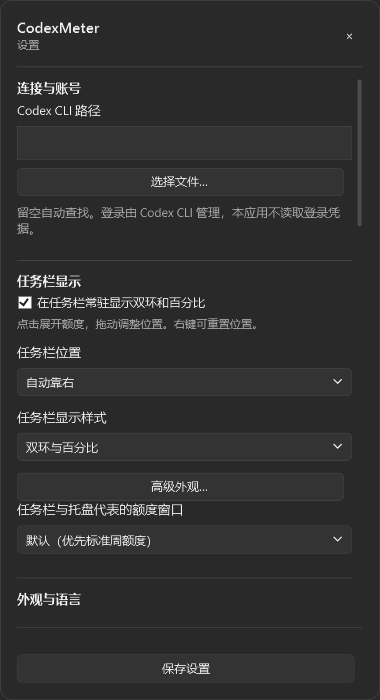
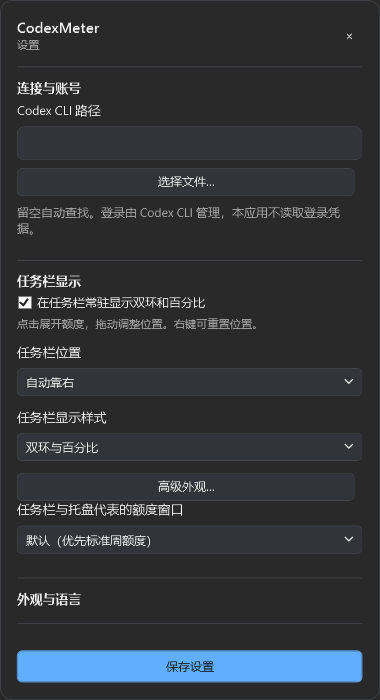
统一设置与管理页面的柔和表面并准备 0.7.4

diff --git a/windows/CodexMeter.Windows/PreferencesStyles.cs b/windows/CodexMeter.Windows/PreferencesStyles.cs
@@ -1,0 +1,100 @@
+using System.Windows;
+using System.Windows.Markup;
+
+namespace CodexMeter.Windows
+{
+    // Scoped to the compact preference windows; quota charts retain their own palette.
+    internal static class PreferencesStyles
+    {
+        public static void Apply(Window window, Palette palette)
+        {
+            string xaml = @"<ResourceDictionary xmlns='http://schemas.microsoft.com/winfx/2006/xaml/presentation' xmlns:x='http://schemas.microsoft.com/winfx/2006/xaml'>
+<SolidColorBrush x:Key='Preferences.Surface' Color='$surface'/>
+<SolidColorBrush x:Key='Preferences.Text' Color='$text'/>
+<SolidColorBrush x:Key='Preferences.Line' Color='$line'/>
+<SolidColorBrush x:Key='Preferences.Hover' Color='$hover'/>
+<SolidColorBrush x:Key='Preferences.Selected' Color='$selected'/>
+<SolidColorBrush x:Key='Preferences.Accent' Color='$accent'/>
+<Style TargetType='ListBox'>
+  <Setter Property='Padding' Value='4'/><Setter Property='BorderThickness' Value='1'/>
+  <Setter Property='HorizontalContentAlignment' Value='Stretch'/>
+  <Setter Property='ScrollViewer.HorizontalScrollBarVisibility' Value='Disabled'/>
+  <Setter Property='Template'><Setter.Value><ControlTemplate TargetType='ListBox'>
+    <Border Background='{TemplateBinding Background}' BorderBrush='{TemplateBinding BorderBrush}' BorderThickness='{TemplateBinding BorderThickness}' CornerRadius='8'>
+      <ScrollViewer x:Name='PART_ScrollViewer' Padding='{TemplateBinding Padding}' Focusable='False' CanContentScroll='True'
+          HorizontalScrollBarVisibility='{TemplateBinding ScrollViewer.HorizontalScrollBarVisibility}' VerticalScrollBarVisibility='{TemplateBinding ScrollViewer.VerticalScrollBarVisibility}'>
+        <ItemsPresenter/>
+      </ScrollViewer>
+    </Border>
+  </ControlTemplate></Setter.Value></Setter>
+</Style>
+<Style TargetType='ListBoxItem'>
+  <Setter Property='Padding' Value='9,6'/><Setter Property='Margin' Value='0,1'/>
+  <Setter Property='HorizontalContentAlignment' Value='Stretch'/><Setter Property='Background' Value='Transparent'/>
+  <Setter Property='BorderBrush' Value='Transparent'/><Setter Property='BorderThickness' Value='1'/>
+  <Setter Property='FocusVisualStyle' Value='{x:Null}'/>
+  <Setter Property='Template'><Setter.Value><ControlTemplate TargetType='ListBoxItem'>
+    <Border x:Name='Frame' Background='{TemplateBinding Background}' BorderBrush='{TemplateBinding BorderBrush}' BorderThickness='{TemplateBinding BorderThickness}' CornerRadius='5' Padding='{TemplateBinding Padding}'>
+      <ContentPresenter HorizontalAlignment='{TemplateBinding HorizontalContentAlignment}' VerticalAlignment='Center'/>
+    </Border>
+    <ControlTemplate.Triggers>
+      <Trigger Property='IsMouseOver' Value='True'><Setter TargetName='Frame' Property='Background' Value='{StaticResource Preferences.Hover}'/></Trigger>
+      <Trigger Property='IsSelected' Value='True'><Setter TargetName='Frame' Property='Background' Value='{StaticResource Preferences.Selected}'/></Trigger>
+      <Trigger Property='IsKeyboardFocusWithin' Value='True'><Setter TargetName='Frame' Property='BorderBrush' Value='{StaticResource Preferences.Accent}'/></Trigger>
+      <Trigger Property='IsEnabled' Value='False'><Setter Property='Opacity' Value='0.45'/></Trigger>
+    </ControlTemplate.Triggers>
+  </ControlTemplate></Setter.Value></Setter>
+</Style>
+<Style x:Key='Preferences.Input' TargetType='Control'>
+  <Setter Property='Background' Value='{StaticResource Preferences.Surface}'/><Setter Property='Foreground' Value='{StaticResource Preferences.Text}'/>
+  <Setter Property='BorderBrush' Value='{StaticResource Preferences.Line}'/><Setter Property='BorderThickness' Value='1'/>
+  <Setter Property='VerticalContentAlignment' Value='Center'/>
+  <Style.Triggers><Trigger Property='IsEnabled' Value='False'><Setter Property='Opacity' Value='0.45'/></Trigger></Style.Triggers>
+</Style>
+<Style TargetType='TextBox' BasedOn='{StaticResource Preferences.Input}'>
+  <Setter Property='CaretBrush' Value='{StaticResource Preferences.Text}'/><Setter Property='SelectionBrush' Value='{StaticResource Preferences.Accent}'/>
+  <Setter Property='Template'><Setter.Value><ControlTemplate TargetType='TextBox'>
+    <Border x:Name='Frame' Background='{TemplateBinding Background}' BorderBrush='{TemplateBinding BorderBrush}' BorderThickness='{TemplateBinding BorderThickness}' CornerRadius='7'>
+      <ScrollViewer x:Name='PART_ContentHost' Focusable='False'/>
+    </Border>
+    <ControlTemplate.Triggers><Trigger Property='IsKeyboardFocusWithin' Value='True'><Setter TargetName='Frame' Property='BorderBrush' Value='{StaticResource Preferences.Accent}'/></Trigger></ControlTemplate.Triggers>
+  </ControlTemplate></Setter.Value></Setter>
+</Style>
+<Style TargetType='PasswordBox' BasedOn='{StaticResource Preferences.Input}'>
+  <Setter Property='CaretBrush' Value='{StaticResource Preferences.Text}'/><Setter Property='SelectionBrush' Value='{StaticResource Preferences.Accent}'/>
+  <Setter Property='Template'><Setter.Value><ControlTemplate TargetType='PasswordBox'>
+    <Border x:Name='Frame' Background='{TemplateBinding Background}' BorderBrush='{TemplateBinding BorderBrush}' BorderThickness='{TemplateBinding BorderThickness}' CornerRadius='7'>
+      <ScrollViewer x:Name='PART_ContentHost' Focusable='False'/>
+    </Border>
+    <ControlTemplate.Triggers><Trigger Property='IsKeyboardFocusWithin' Value='True'><Setter TargetName='Frame' Property='BorderBrush' Value='{StaticResource Preferences.Accent}'/></Trigger></ControlTemplate.Triggers>
+  </ControlTemplate></Setter.Value></Setter>
+</Style>
+<Style TargetType='Slider'>
+  <Setter Property='Template'><Setter.Value><ControlTemplate TargetType='Slider'>
+    <Grid MinHeight='20'>
+      <Track x:Name='PART_Track' Minimum='{TemplateBinding Minimum}' Maximum='{TemplateBinding Maximum}'
+          Value='{Binding Value, RelativeSource={RelativeSource TemplatedParent}, Mode=TwoWay}'
+          Orientation='{TemplateBinding Orientation}' IsDirectionReversed='{TemplateBinding IsDirectionReversed}'>
+        <Track.DecreaseRepeatButton><RepeatButton Command='{x:Static Slider.DecreaseLarge}' Focusable='False'>
+          <RepeatButton.Template><ControlTemplate TargetType='RepeatButton'><Border Height='3' CornerRadius='1.5' Background='{StaticResource Preferences.Accent}' VerticalAlignment='Center'/></ControlTemplate></RepeatButton.Template>
+        </RepeatButton></Track.DecreaseRepeatButton>
+        <Track.Thumb><Thumb Width='13' Height='13' Background='{StaticResource Preferences.Surface}' BorderBrush='{StaticResource Preferences.Accent}' BorderThickness='2'>
+          <Thumb.Template><ControlTemplate TargetType='Thumb'><Border CornerRadius='7' Background='{TemplateBinding Background}' BorderBrush='{TemplateBinding BorderBrush}' BorderThickness='{TemplateBinding BorderThickness}'/></ControlTemplate></Thumb.Template>
+        </Thumb></Track.Thumb>
+        <Track.IncreaseRepeatButton><RepeatButton Command='{x:Static Slider.IncreaseLarge}' Focusable='False'>
+          <RepeatButton.Template><ControlTemplate TargetType='RepeatButton'><Border Height='3' CornerRadius='1.5' Background='{StaticResource Preferences.Line}' VerticalAlignment='Center'/></ControlTemplate></RepeatButton.Template>
+        </RepeatButton></Track.IncreaseRepeatButton>
+      </Track>
+    </Grid>
+    <ControlTemplate.Triggers><Trigger Property='IsEnabled' Value='False'><Setter Property='Opacity' Value='0.45'/></Trigger></ControlTemplate.Triggers>
+  </ControlTemplate></Setter.Value></Setter>
+</Style>
+</ResourceDictionary>";
+            xaml = xaml.Replace("$surface", palette.Surface.ToString()).Replace("$text", palette.Text.ToString())
+                .Replace("$line", palette.Line.ToString()).Replace("$accent", palette.Accent.ToString())
+                .Replace("$hover", palette.Dark ? "#3B3E44" : "#E0E4E9")
+                .Replace("$selected", palette.Dark ? "#284665" : "#DCE9F7");
+            window.Resources.MergedDictionaries.Add((ResourceDictionary)XamlReader.Parse(xaml));
+        }
+    }
+}

diff --git a/windows/CodexMeter.Windows/CompactWindow.cs b/windows/CodexMeter.Windows/CompactWindow.cs
@@ -17,7 +17,11 @@ namespace CodexMeter.Windows
         protected readonly ScrollViewer Viewport;
         public CompactWindow(string title, string theme, bool preview)
         {
-            Theme = Palette.For(theme); Title = "CodexMeter · " + L.T(title);
+            Theme = Palette.For(theme);
+            Theme.Surface = Palette.Brush(Theme.Dark ? "#323439" : "#ECEEF1");
+            Theme.Line = Palette.Brush(Theme.Dark ? "#45484E" : "#D9DDE2");
+            PreferencesStyles.Apply(this, Theme);
+            Title = "CodexMeter · " + L.T(title);
             Width = 380; Height = Math.Min(700, SystemParameters.WorkArea.Height - 32); MinHeight = 360;
             WindowStyle = WindowStyle.None; ResizeMode = ResizeMode.NoResize; ShowInTaskbar = false;
             WindowStartupLocation = WindowStartupLocation.CenterScreen; Background = Theme.Background;
@@ -54,7 +58,16 @@ namespace CodexMeter.Windows
         { var button = Theme.Button(title, action); button.MinHeight = 28; button.FontSize = 12; button.Padding = new Thickness(8, 4, 8, 4); return button; }
         protected void FinishLayout()
         {
-            CompactControls(Body); CompactControls(Actions); L.Apply(this);
+            CompactControls(Body); CompactControls(Actions);
+            var primary = Actions.Children.OfType<Button>().FirstOrDefault();
+            if (primary != null)
+            {
+                primary.Background = Palette.Brush(Theme.Dark ? "#60AFFF" : "#0067C0");
+                primary.Foreground = Palette.Brush(Theme.Dark ? "#15202B" : "#FFFFFF");
+                primary.BorderBrush = primary.Background; primary.MinHeight = 32;
+                primary.Margin = new Thickness(0, primary.Margin.Top, 0, primary.Margin.Bottom);
+            }
+            L.Apply(this);
         }
         private static void CompactControls(DependencyObject parent)
         {

diff --git a/windows/CodexMeter.Windows/SettingsWindow.cs b/windows/CodexMeter.Windows/SettingsWindow.cs
@@ -104,7 +104,7 @@ namespace CodexMeter.Windows
             var showReset = Toggle(root, p, "重置倒计时与日期", current.ShowReset);
             root.Children.Add(p.Label("弹窗区域顺序", 13, p.Text));
             var sections = new ListBox { Background = p.Surface, Foreground = p.Text, BorderBrush = p.Line,
-                Margin = new Thickness(0, 8, 0, 8), Height = 130 };
+                Margin = new Thickness(0, 8, 0, 8), MaxHeight = 190 };
             System.Windows.Automation.AutomationProperties.SetAutomationId(sections, "SectionOrder");
             ScrollViewer.SetVerticalScrollBarVisibility(sections, ScrollBarVisibility.Hidden);
             sections.PreviewMouseWheel += ForwardListWheel;
@@ -125,7 +125,7 @@ namespace CodexMeter.Windows
             {
                 var foundWindow = windows.FirstOrDefault(w => w.Id == id);
                 rows.Items.Add(new CheckBox { Content = foundWindow == null ? id : foundWindow.Title, Tag = id,
-                    IsChecked = foundWindow == null ? !(current.HiddenWindows ?? new string[0]).Contains(id) : current.IsWindowVisible(foundWindow), Foreground = p.Text, Margin = new Thickness(4) });
+                    IsChecked = foundWindow == null ? !(current.HiddenWindows ?? new string[0]).Contains(id) : current.IsWindowVisible(foundWindow), Foreground = p.Text, Margin = new Thickness(0) });
             }
             root.Children.Add(rows);
             var orderButtons = new StackPanel { Orientation = Orientation.Horizontal, Margin = new Thickness(0, 0, 0, 18) };

diff --git a/windows/CodexMeter.Windows/Palette.cs b/windows/CodexMeter.Windows/Palette.cs
@@ -73,8 +73,14 @@ namespace CodexMeter.Windows
             style.Setters.Add(new Setter(Control.ForegroundProperty, Text));
             style.Setters.Add(new Setter(Control.BackgroundProperty, Surface));
             style.Setters.Add(new Setter(Control.PaddingProperty, new Thickness(8, 6, 8, 6)));
+            style.Setters.Add(new Setter(Control.TemplateProperty, (ControlTemplate)XamlReader.Parse(
+                "<ControlTemplate xmlns='http://schemas.microsoft.com/winfx/2006/xaml/presentation' TargetType='ComboBoxItem'>" +
+                "<Border Background='{TemplateBinding Background}' CornerRadius='4' Padding='{TemplateBinding Padding}'>" +
+                "<ContentPresenter VerticalAlignment='Center'/></Border></ControlTemplate>")));
             var highlighted = new Trigger { Property = ComboBoxItem.IsHighlightedProperty, Value = true };
             highlighted.Setters.Add(new Setter(Control.BackgroundProperty, Line)); style.Triggers.Add(highlighted);
+            var selected = new Trigger { Property = ComboBoxItem.IsSelectedProperty, Value = true };
+            selected.Setters.Add(new Setter(Control.BackgroundProperty, Brush(Dark ? "#284665" : "#DCE9F7"))); style.Triggers.Add(selected);
             combo.ItemContainerStyle = style; return combo;
         }
         public Button Button(string text, RoutedEventHandler click)

diff --git a/windows/CodexMeter.Core/ProductVersion.cs b/windows/CodexMeter.Core/ProductVersion.cs
@@ -2,7 +2,7 @@ namespace CodexMeter.Core
 {
     public static class ProductVersion
     {
-        public const string Current = "0.7.3";
-        public const string Assembly = "0.7.3.0";
+        public const string Current = "0.7.4";
+        public const string Assembly = "0.7.4.0";
     }
 }

diff --git a/AGENTS.md b/AGENTS.md
@@ -19,6 +19,7 @@ This workspace contains an independent Windows addition for raycalrui/CodexMeter
 - v0.2 adds a primary-taskbar overlay with real quota/time rings, safe gap calculation and saved visibility/position. Never describe it as native Explorer embedding; real Explorer docking is unverified in the isolated desktop.
 - Keep the 380-wide popover compact with divider-separated rows, paired metric bars and content-measured height. Do not add the former oversized percentage cards.
 - The popover hides its vertical scrollbar with ScrollBarVisibility.Hidden, not Disabled: wheel/touchpad/keyboard scrolling must remain available. Clip the middle viewport; keep the title and footer fixed. Settings also hides its viewport/list vertical scrollbars at the user's request. AppearanceWindow shares the compact Settings shell and hides its scrollbar, keeping its demo preview and actions fixed. Forward list wheel input to the settings viewport only when the inner list cannot scroll in that direction; preserve overflowing-list scrolling and keyboard selection. Other independent management/history windows retain their own scrollbars. Run settings-scroll-smoke.ps1 sequentially with UI checks; fixtures use preview settings/appearance windows without production state.
+- Compact preference windows share scoped muted surfaces and PreferencesStyles rounded lists/fields. Preserve PART_ContentHost for text/password editing, PART_ScrollViewer and ItemsPresenter for list keyboard/scroll behavior, visible selection/focus in both themes, masked credentials, and content-sized lists with bounded overflow. Avoid restoring stark white blocks or modifying quota chart surfaces for preference styling.
 - v0.4.2 gives the layered taskbar HWND a nonzero-alpha input background. Keep pointer handlers on the window so glyph gaps and border corners respond. Ordinary preview uses production transparency; only screenshot smoke uses a solid backdrop. Run indicator-smoke.ps1 sequentially with other previews. Release capture before queued popup activation, cancel gestures on capture loss, and preserve the popup generation check on deferred dismissal. Preview --interaction-check enables production dismissal without reading accounts or persistence.
 - v0.2.1 adds StartLeft/StartRight/Auto/Custom docking. Start modes use the actual button bounds with a 4-DIP gap; blocked slots fall back above Start, never an unrelated gap. Legacy left ratios migrate to StartLeft.
 - Keep the status indicator content-sized with 18-DIP rings. Use vector glyphs, tabular numbers and exact reset timestamps in the popover. Windows 11 backdrop material has an opaque fallback.

diff --git a/windows/VERIFICATION.md b/windows/VERIFICATION.md
@@ -1,4 +1,16 @@
-# Verification — Windows v0.7.3
+# Verification — Windows v0.7.4
+
+## 0.7.4 设置与管理页面表面样式（2026-10-21）
+
+CompactWindow 使用局部柔和灰色表面；PreferencesStyles 为设置、高级外观、远程提醒、数据及关于页面提供圆角列表、输入框／密码框、浅深色选中行与键盘焦点提示。排序列表改为内容自适应并保留最大高度；底部主要操作使用有对比度的强调色，下拉选项采用相同的柔和高亮，滑块统一细线轨道和圆形手柄。详情面板与图表背景未修改。版本统一为 0.7.4／0.7.4.0，未覆盖已发布标签或关闭用户实例。
+
+Framework 构建通过 337 项核心测试；现有设置滚动检查通过两种主题及高级外观中英文组合，覆盖列表内部滚动／边界交接、PageDown／PageUp、固定预览／底栏、短窗口、预设和应用。发行界面检查通过远程凭据遮蔽、预览发送／数据操作隔离、更新地址及公钥输入、模拟更新状态；功能检查通过区域排序、语言、全部任务栏样式及繁体中文切换。独立演示截图覆盖浅深色、中英文的设置首页、排序列表及高级外观，人工检查了浅色中文与深色英文的列表、浅色英文与深色中文的圆形滑块效果，以及远程提醒表单。未模拟物理鼠标设备，也未访问生产设置或账号。新的 GitHub 构建与 0.7.4 Release 仍须实际确认。
+
+最终 0.7.4 二进制的完整高级检查通过历史／Token、详情重新打开、真实 Slider RangeValue 操作、外观应用至任务栏及每周小图开关；样式不会绕开原有控件行为。浅深色管理页面演示截图已生成，程序目录不包含测试、截图或生产凭据。发布包另行检查文件选择、SHA-256 和解压后设置预览，结果保存在 ignored artifacts/release-0.7.4/。
+
+## 0.7.3 正式发布结果（2026-10-21）
+
+正常用户会话采集确认 main 运行 39453447185 和标签运行 39454299274 均成功；HEAD、origin/main 与 windows-v0.7.3 当时均为 ead67d6195df2e39b7f681b6fe0e14c64be632bf。GitHub API 回读 [0.7.3 Release](https://github.com/bsxucome/CodexMeter-for-Windows/releases/tag/windows-v0.7.3) 的 draft=false、published_at=2026-10-20T16:10:43Z，两种 ZIP 及 SHA-256 文件均为 uploaded 且大小大于零。本地核验记录见 ignored artifacts/release-0.7.3/publication-status.json；远端 ZIP 字节未单独下载重算。此结果取代以下 0.7.3 准备记录中的待发布状态。
 
 ## 0.7.3 面板导航与短窗口回归（2026-10-20）
 

diff --git a/windows/README.md b/windows/README.md
@@ -4,6 +4,8 @@
 
 设置页已隐藏右侧滚动条并保留滚动功能。“弹窗区域顺序”和“额度窗口显示与顺序”列表内可使用滚轮；内容无需内部滚动或已到边界时，滚轮继续滚动外层设置页。列表选择、排序操作与键盘翻页保持可用。
 
+0.7.4 的设置、高级外观、远程提醒、历史与备份、关于页面统一使用柔和灰底与圆角控件，去除大块纯白输入／列表底色。列表按内容调整高度，选中与键盘焦点清晰区分，底部主要操作使用强调色。
+
 支持 Windows 11 x64。默认在主屏幕任务栏区域显示双环＋百分比：外环是剩余额度，蓝色内环是剩余时间。点击展开详情，拖动调整位置，右键可重置位置、设置或退出。详情按原项目采用 380 宽度、紧凑字号、分隔线、矢量图标、成对进度条和精确重置日期；Windows 11 上启用系统弹窗背景材质，不支持时使用纯色。系统托盘入口继续提供快捷操作。
 
 ## 运行
@@ -16,10 +18,10 @@
 应用优先使用 npm 包内的原生 codex.exe，不执行 codex.ps1，也不修改 PowerShell 执行策略。无原生包时可使用 Node 和官方 codex.js 入口。普通任意 cmd/bat 脚本不受支持。
 
 两种发布：
-- `CodexMeter-Windows-0.7.0-dotnet10-x64.zip`：推荐的 .NET 10 自包含包，不需要单独安装 .NET。
-- `CodexMeter-Windows-0.7.0-framework-x64.zip`：兼容包，使用 .NET Framework 4.8 或更新版本。
+- `CodexMeter-Windows-<版本>-dotnet10-x64.zip`：推荐的 .NET 10 自包含包，不需要单独安装 .NET。
+- `CodexMeter-Windows-<版本>-framework-x64.zip`：兼容包，使用 .NET Framework 4.8 或更新版本。
 
-两种便携包均已在 [0.7.0 发行页](https://github.com/bsxucome/CodexMeter-for-Windows/releases/tag/windows-v0.7.0) 提供，并附 SHA-256 校验文件。
+已发布的便携包见 [最新发行页](https://github.com/bsxucome/CodexMeter-for-Windows/releases/latest)，每种运行时均附 SHA-256 校验文件。本地构建版本可能领先于已发布版本，以实际 Release 标签为准。
 
 暂不支持 WSL CLI、ARM64。API Key / Bedrock 等账号可能不提供 ChatGPT 额度与 Token 活动；不存在的数据不会被显示为零。安装在桌面应用私有位置的 Codex 需要手动指定路径，不保证与独立 CLI 自动共享登录状态。完整功能对齐状态见 [PARITY.md](PARITY.md)，当前仍是分阶段移植。
 

diff --git a/UPSTREAM.md b/UPSTREAM.md
@@ -6,6 +6,8 @@
 
 ## Provenance records
 
+Windows preferences presentation follow-up, 2026-10-21: version 0.7.4 replaces stark white preference controls with scoped muted surfaces, rounded lists and editing fields, content-sized ordering lists, soft selection and prominent footer actions. Styles cover Settings, Appearance, Remote, Data and About; no account, persistence or quota policy changes. The prior 0.7.3 tag run 39454299274 and its four public assets were confirmed through the normal-user GitHub collector at commit ead67d6195df2e39b7f681b6fe0e14c64be632bf. This does not imply that 0.7.4 has been published.
+
 Windows 0.7.3 UI navigation follow-up, 2026-10-20: main run 39448546410 passed actual signing-entry and delayed WPF readiness regression, then failed while locating weekly history after closing the separate history window. Local diagnostics reproduced window lookup selecting a same-named title TextBlock with HWND=0. Require ControlType.Window and exercise a duplicate-title/delayed-window fixture. The advanced preview now uses production dismissal, explicitly opens details through its own indicator and traverses the real scroll viewport, including negative visibility checks. A short WPF fixture verifies clipped-content discovery without trusting IsOffscreen alone. This changes automation metadata and verification, not upstream parity or account handling; hosted publication still requires a successful new run.
 
 Windows 0.7.3 release follow-up, 2026-10-20: main run 39445082151 passed, while tag run 39445756687 exposed a release-only Windows PowerShell ANSI decoding failure and a QuotaRange UIA timeout. Move signing code to a BOM-encoded script, validate ASCII workflow code and exercise the actual signing invocation with absent/test-only keys. Add bounded UI readiness with a delayed real-WPF fixture. Keep both earlier tags; use 0.7.3 for the correction. No upstream parity or production trust configuration changes.

diff --git a/windows/RELEASES.md b/windows/RELEASES.md
@@ -1,5 +1,11 @@
 # Windows 发行与更新接入
 
+## 0.7.4 设置页面样式
+
+设置、高级外观及相关管理窗口统一柔和灰底、圆角列表／输入框、淡色选中态与强调色底栏按钮，排序列表按内容适配高度。见 [0.7.4 发行说明](releases/0.7.4.md)。本地准备不代表已发版，正式下载以 Release 实际附件为准。
+
+0.7.3 已由 [标签流水线 39454299274](https://github.com/bsxucome/CodexMeter-for-Windows/actions/runs/39454299274) 发布，提交为 ead67d6195df2e39b7f681b6fe0e14c64be632bf；两个 ZIP 和对应 SHA-256 文件均由正常用户会话的 GitHub API 回读确认已上传。以下保留此前的准备记录。
+
 ## 0.7.3 发布准备
 
 0.7.2 的 main 构建成功，但标签发版遇到 Windows PowerShell 中文内联编码错误及 UIA 就绪超时，Release 未发布。0.7.3 改用带 BOM 的独立签名脚本，并把两种运行时的无密钥／测试签名路径加入 main 回归；界面测试使用有界就绪等待。见 [0.7.3 发行说明](releases/0.7.3.md)。保留旧标签，新的标签仅在 main 构建成功后由发布入口创建。

diff --git a/windows/releases/0.7.4.md b/windows/releases/0.7.4.md
@@ -1,0 +1,14 @@
+# CodexMeter for Windows 0.7.4
+
+本次更新优化设置和管理页面的视觉层次。
+
+- 设置、高级外观、远程提醒、历史与备份、关于页面统一使用柔和灰色表面，去除突兀的大块纯白底色。
+- 排序列表改用圆角容器、宽松行距与淡色选中态；列表高度随内容变化，减少无用留白。
+- 输入框与密码框统一圆角边框及键盘焦点提示，下拉选项适配浅色与深色主题。
+- 高级外观及通知参数使用细线轨道和圆形滑块，深色模式不再出现突兀的白色滑轨。
+- 保存、应用和完成等底部主要操作使用强调色，预览及次要按钮使用低对比度灰底。
+- 保留设置与高级外观隐藏滚动条、列表内滚轮交接、键盘翻页及固定底栏行为。
+
+推荐选择 `CodexMeter-Windows-0.7.4-dotnet10-x64.zip`；Framework 兼容包需要 .NET Framework 4.8 或更新版本。两者均为 Windows x64 便携包。
+
+升级前请在旧版主面板点击“退出”，将新版完整解压到独立目录，再运行 `CodexMeter.exe`。设置与历史记录可继续使用。

diff --git a/README.en.md b/README.en.md
@@ -38,6 +38,8 @@ Settings hides its vertical scrollbars while retaining wheel and keyboard scroll
 
 Advanced appearance shares the compact Settings layout, with a hidden scrollbar, a fixed live preview and fixed footer actions. Controls are grouped by graphics, text and color, with Chinese and English support.
 
+Settings and management windows use muted surfaces, rounded fields and lists, soft selection colors, and clear primary actions in both themes. Ordering lists fit their content to reduce empty space.
+
 Credits, reset opportunities, and Token activity depend on account and API availability. Missing data is unavailable or omitted rather than displayed as zero. Remote reminders require explicit configuration and opt-in.
 
 ## Download and get started
